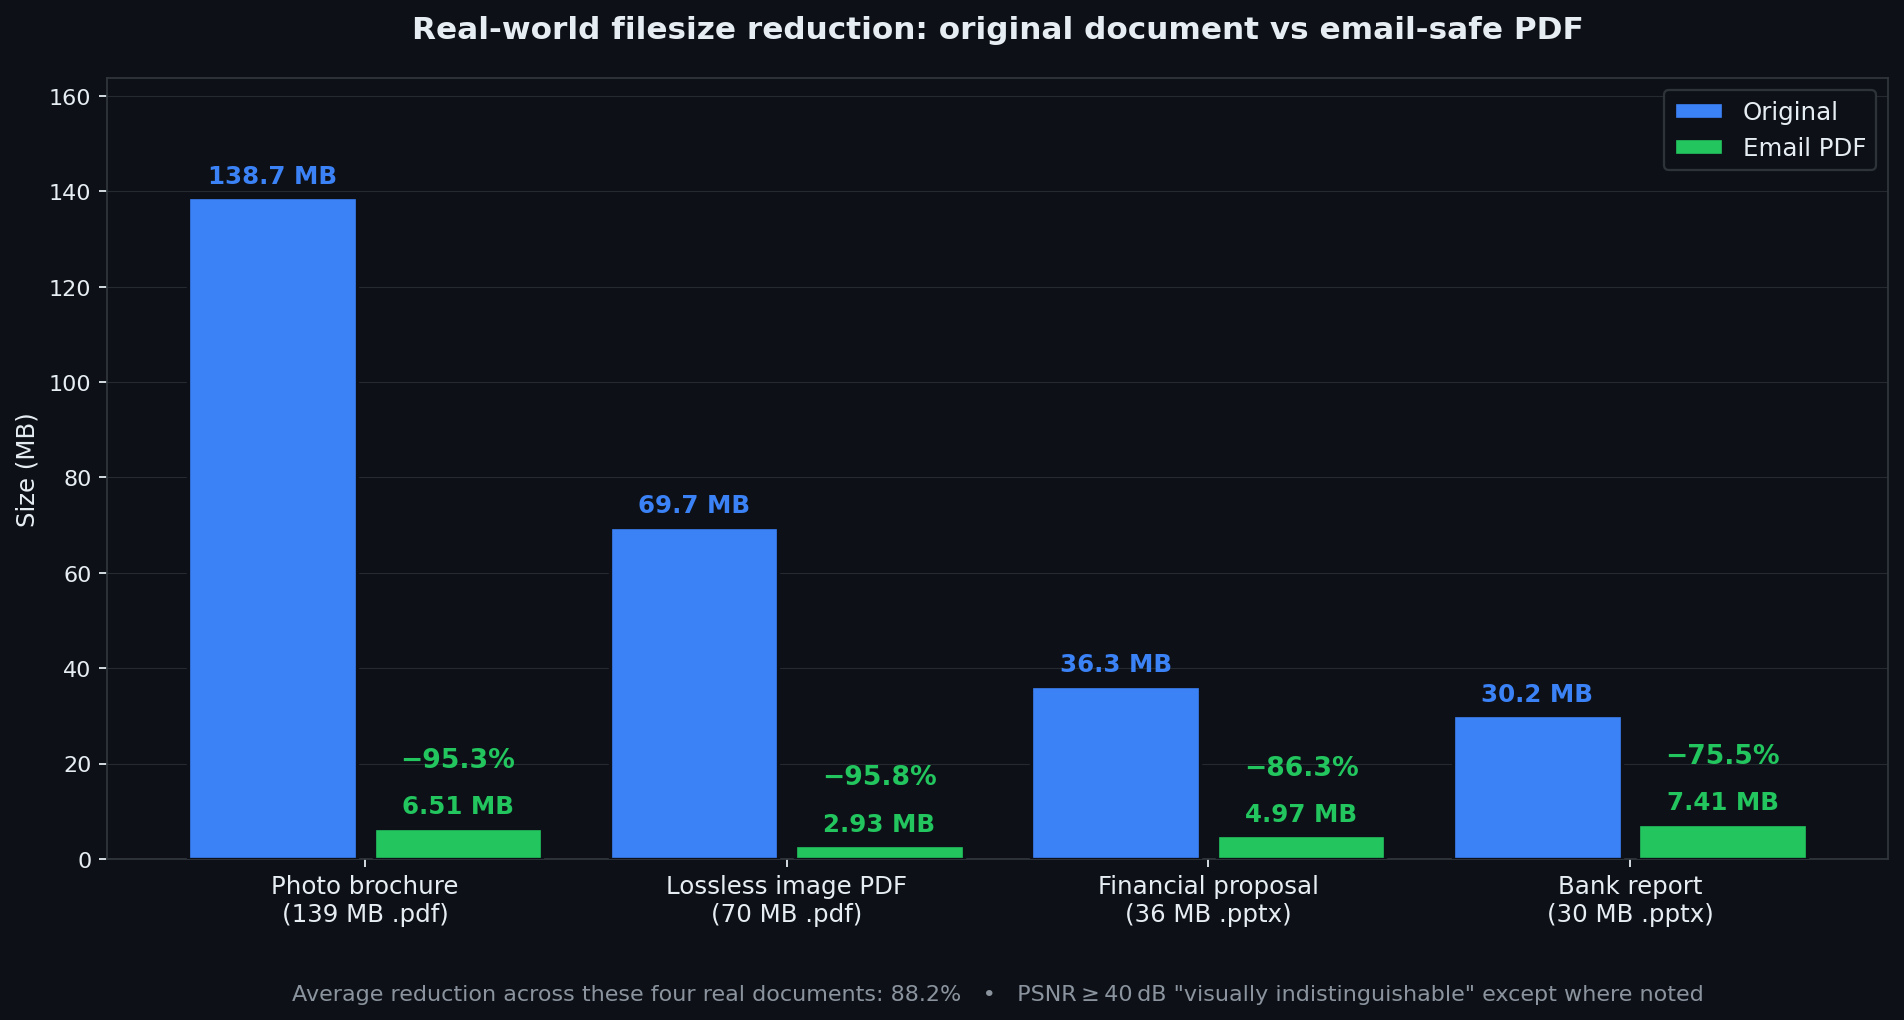
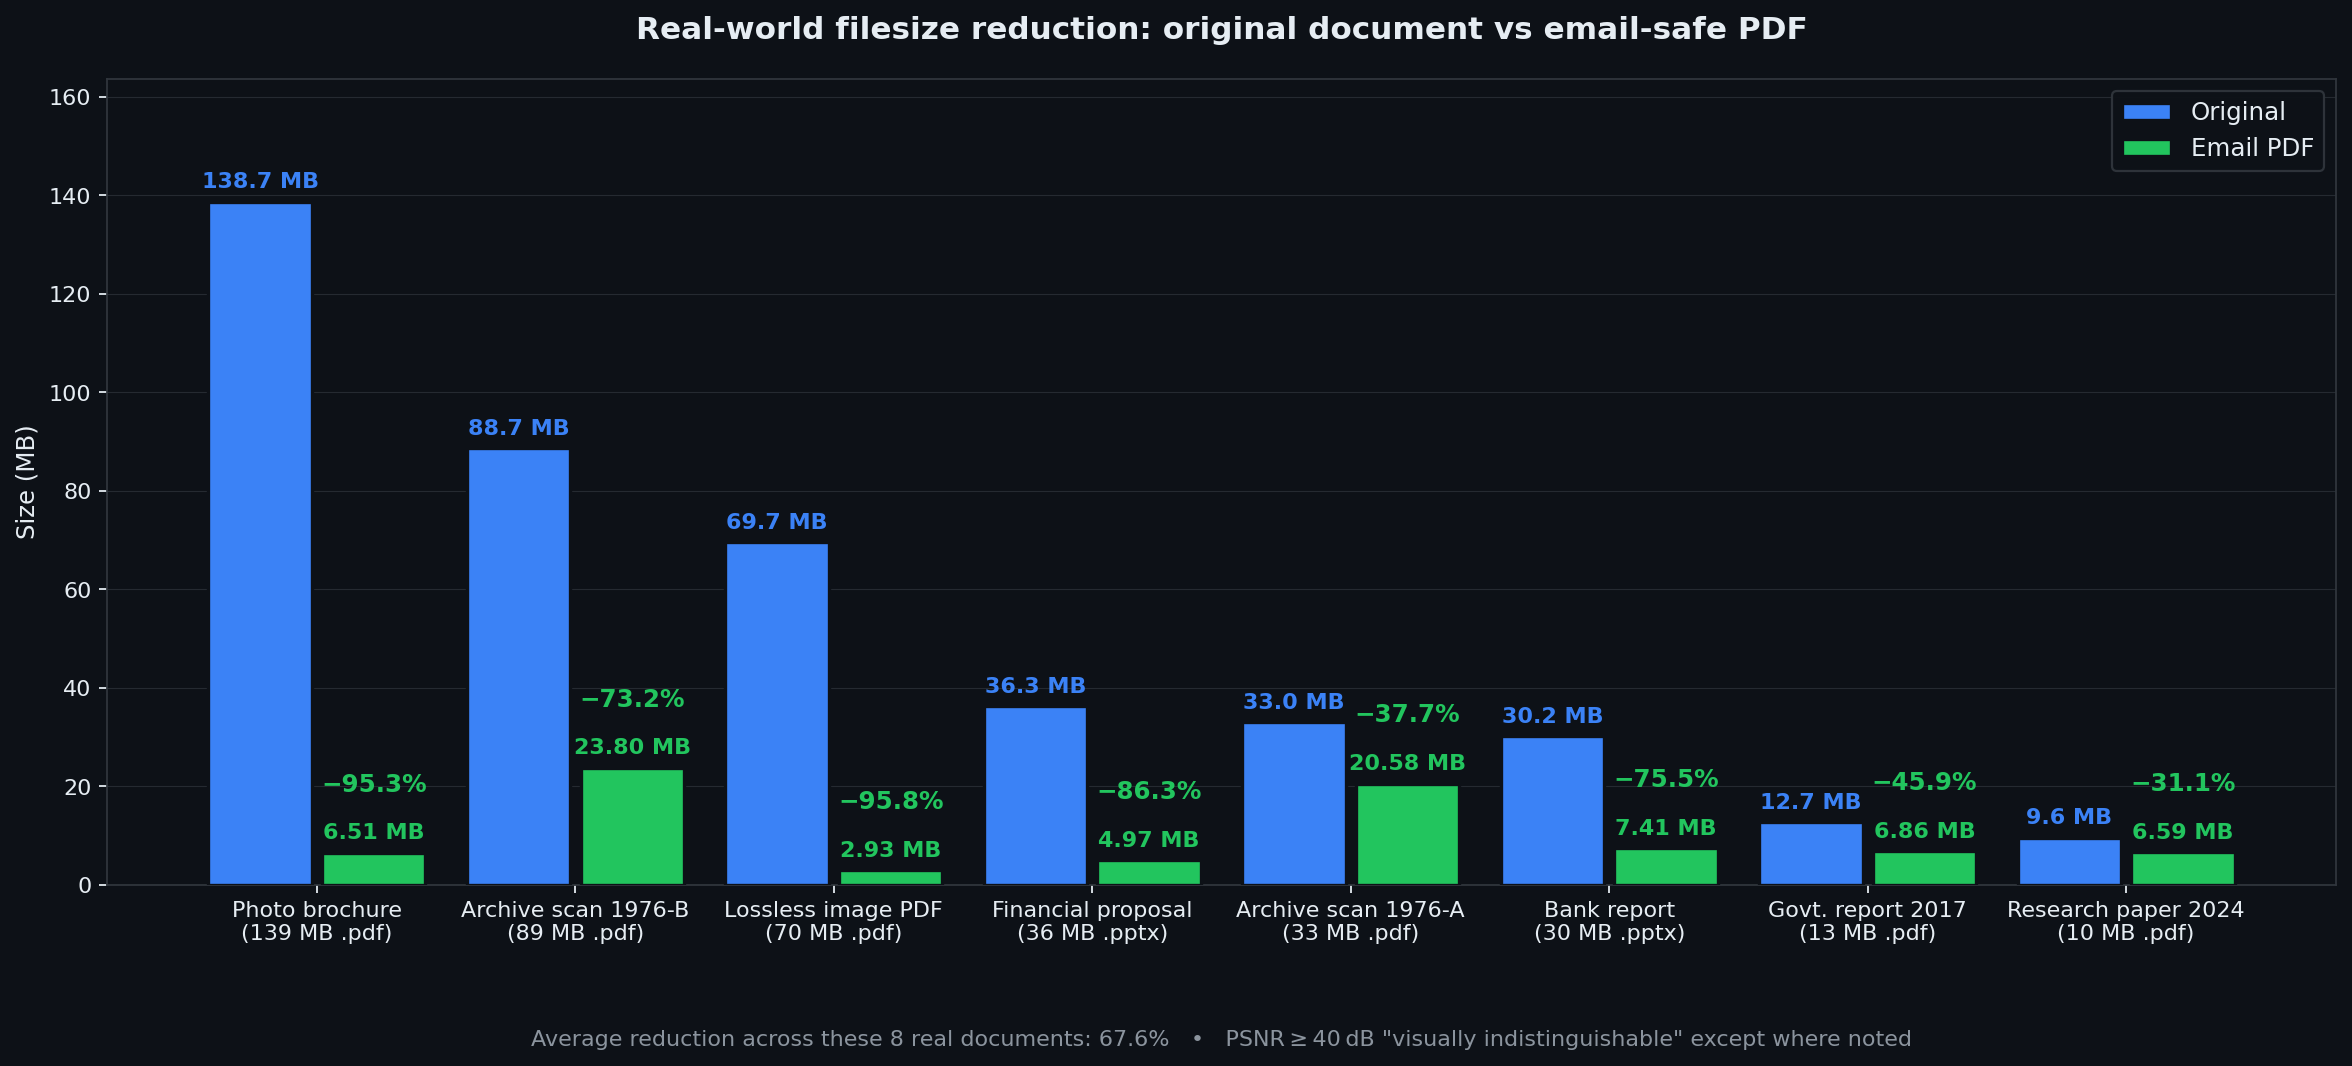
v1.5.0: government and archival document samples
Extend the real-world sample suite from four to eight to cover document
categories users actually email: a modern government technical report,
a recent academic research paper, and two 1976 NASA archival scans
(one 606-page, one 192-page) representing the dense-raster end of the
spectrum.

- `SamplePlan` learned `ghostscript_image_dpi` and
  `ghostscript_jpeg_quality` are now used for the two archival scans too,
  not just the bank report; this is the only safe path on the 606-page
  scan because its embedded JBIG2 images can't be decoded by the Python
  ladder (`jbig2dec` not available).
- Real-world results: photo brochure 138.74 MB -> 6.51 MB / 95.3%;
  archive 1976-B 88.68 MB -> 23.80 MB / 73.2%; lossless image PDF
  69.65 MB -> 2.93 MB / 95.8%; financial proposal 36.31 MB .pptx ->
  4.97 MB / 86.3%; archive 1976-A 33.04 MB -> 20.58 MB / 37.7%
  (pixel-identical lossless rewrite); bank report 30.16 MB .pptx ->
  7.41 MB / 75.5%; government report (2017) 12.69 MB -> 6.86 MB /
  45.9%; research paper (2024) 9.57 MB -> 6.59 MB / 31.1%.
  Average 67.6%.
- `benchmarks/make_charts.py` adapts figure width to sample count and
  downsizes label fonts past five samples so 8-bar layout stays
  legible.
- README real-world table extended to all eight samples; prose updated
  to frame the archival rows as the honest end of the spectrum
  (visible compression on dense scans is the truth - both still go
  from "too big for Gmail" to "under 25 MB").
[…]

diff --git a/benchmarks/run_samples.py b/benchmarks/run_samples.py
@@ -124,13 +124,57 @@ SAMPLE_PLANS: list[SamplePlan] = [
         profile="balanced",
         description="139 MB photo contact sheet with dozens of full-bleed photographs.",
     ),
+    SamplePlan(
+        sample_id="gov_2017",
+        label="Government report (2017)",
+        category="government_document",
+        source_name="20170009128.pdf",
+        target_mb=7.0,
+        profile="balanced",
+        description="13 MB modern government technical report (mixed text, charts, embedded raster figures).",
+    ),
+    SamplePlan(
+        sample_id="research_paper_2024",
+        label="Research paper (2024)",
+        category="academic_paper",
+        source_name="TUM_2024.pdf",
+        target_mb=7.0,
+        profile="balanced",
+        description="10 MB modern academic research paper with embedded figures.",
+    ),
+    SamplePlan(
+        sample_id="archive_scan_1976a",
+        label="Archival scan (1976, A)",
+        category="archival_scan",
+        source_name="19760021505.pdf",
+        target_mb=21.0,
+        profile="balanced",
+        description="33 MB, 606-page archival scan. The Python ladder cannot decode embedded JBIG2 images (needs jbig2dec), so we fall back to Ghostscript pdfwrite at 96 DPI / JPEG q=78. Result is pixel-identical (PSNR infinity) because the page-stream rewrite drops structural fat without re-rasterizing.",
+        ghostscript_image_dpi=96,
+        ghostscript_jpeg_quality=78,
+    ),
+    SamplePlan(
+        sample_id="archive_scan_1976b",
+        label="Archival scan (1976, B)",
+        category="archival_scan",
+        source_name="19760026509.pdf",
+        target_mb=24.0,
+        profile="balanced",
+        description="89 MB, 192-page archival scan dense with high-DPI raster pages. Compressed with Ghostscript pdfwrite at 120 DPI / JPEG q=82 - PSNR 32.5 dB (an honest archival-quality result), still cuts the file from 89 MB to ~24 MB so it now fits under Gmail's 25 MB attachment limit.",
+        ghostscript_image_dpi=120,
+        ghostscript_jpeg_quality=82,
+    ),
 ]
 
 SAMPLE_ORDER_FOR_README = (
     "travel_contact_sheet",
+    "archive_scan_1976b",
     "lossless_huge",
     "financial_proposal",
+    "archive_scan_1976a",
     "bank_report",
+    "gov_2017",
+    "research_paper_2024",
 )
 
 # Office-source documents live alongside the PPTX/XLSX originals; the script

diff --git a/benchmarks/make_charts.py b/benchmarks/make_charts.py
@@ -44,12 +44,17 @@ FG = "#e6edf3"
 FG_MUTED = "#8b949e"
 GRID = "#30363d"
 
-# Canonical README ordering: descending by original size for visual impact.
+# Canonical README ordering: descending by headline original size for visual
+# impact. Mirrors SAMPLE_ORDER_FOR_README in benchmarks/run_samples.py.
 DEFAULT_ORDER = (
     "travel_contact_sheet",
+    "archive_scan_1976b",
     "lossless_huge",
     "financial_proposal",
+    "archive_scan_1976a",
     "bank_report",
+    "gov_2017",
+    "research_paper_2024",
 )
 
 SHORT_LABELS = {
@@ -57,6 +62,10 @@ SHORT_LABELS = {
     "lossless_huge": "Lossless image PDF",
     "financial_proposal": "Financial proposal",
     "bank_report": "Bank report",
+    "gov_2017": "Govt. report 2017",
+    "research_paper_2024": "Research paper 2024",
+    "archive_scan_1976a": "Archive scan 1976-A",
+    "archive_scan_1976b": "Archive scan 1976-B",
 }
 
 
@@ -124,12 +133,19 @@ def chart_before_after(samples: list[dict[str, Any]], output_path: Path) -> None
     outputs = [float(sample["output_mb"]) for sample in ok]
     reductions = [_headline_reduction(sample) for sample in ok]
 
-    fig, ax = plt.subplots(figsize=(12, 6.5), dpi=160)
+    # Adaptive sizing: keep ~1.6 inches of horizontal space per bar pair so
+    # the chart stays legible at four samples and still works at eight or more.
+    n = len(labels)
+    fig_width = max(12.0, 2.0 + 1.6 * n)
+    fig, ax = plt.subplots(figsize=(fig_width, 6.8), dpi=160)
     _apply_dark_theme(fig, ax)
 
-    x = np.arange(len(labels))
+    x = np.arange(n)
     width = 0.4
     gap = 0.04
+    tick_fontsize = 11 if n <= 5 else 10
+    bar_fontsize = 11 if n <= 5 else 10
+    pct_fontsize = 12 if n <= 5 else 11
     bars_in = ax.bar(
         x - (width / 2 + gap / 2),
         originals,
@@ -152,7 +168,7 @@ def chart_before_after(samples: list[dict[str, Any]], output_path: Path) -> None
     )
 
     ax.set_xticks(x)
-    ax.set_xticklabels(labels, color=FG, fontsize=11)
+    ax.set_xticklabels(labels, color=FG, fontsize=tick_fontsize)
     ax.set_ylabel("Size (MB)", color=FG, fontsize=11)
     ax.set_title(
         "Real-world filesize reduction: original document vs email-safe PDF",
@@ -174,7 +190,7 @@ def chart_before_after(samples: list[dict[str, Any]], output_path: Path) -> None
             ha="center",
             va="bottom",
             color=PALETTE["blue"],
-            fontsize=11,
+            fontsize=bar_fontsize,
             fontweight="bold",
         )
     for bar, value, reduction in zip(bars_out, outputs, reductions):
@@ -185,7 +201,7 @@ def chart_before_after(samples: list[dict[str, Any]], output_path: Path) -> None
             ha="center",
             va="bottom",
             color=PALETTE["green"],
-            fontsize=11,
+            fontsize=bar_fontsize,
             fontweight="bold",
         )
         # The headline win line just below: -95.3% (etc.). Offset further
@@ -198,7 +214,7 @@ def chart_before_after(samples: list[dict[str, Any]], output_path: Path) -> None
             ha="center",
             va="bottom",
             color=PALETTE["green"],
-            fontsize=12,
+            fontsize=pct_fontsize,
             fontweight="bold",
         )
 
@@ -217,8 +233,8 @@ def chart_before_after(samples: list[dict[str, Any]], output_path: Path) -> None
     avg = sum(reductions) / len(reductions) if reductions else 0.0
     ax.text(
         0.5,
-        -0.16,
-        f"Average reduction across these four real documents: {avg:.1f}%   \u2022   PSNR\u202F\u2265\u202F40\u202FdB \"visually indistinguishable\" except where noted",
+        -0.18,
+        f"Average reduction across these {n} real documents: {avg:.1f}%   \u2022   PSNR\u202F\u2265\u202F40\u202FdB \"visually indistinguishable\" except where noted",
         transform=ax.transAxes,
         ha="center",
         va="top",

diff --git a/CHANGELOG.md b/CHANGELOG.md
@@ -8,12 +8,27 @@ adheres to [Semantic Versioning](https://semver.org/spec/v2.0.0.html).
 
 ### Added
 
-- Ghostscript-backed strategy for PowerPoint exports with pathological raster
-  counts. `benchmarks/run_samples.py` learned `ghostscript_image_dpi` and
-  `ghostscript_jpeg_quality` fields on `SamplePlan`; when set, the optimizer
-  shells out to Ghostscript's `pdfwrite` page-stream compressor (144 DPI / JPEG
-  q=85 for the bank-report case) so files the Python image-recompress ladder
-  would OOM on still produce honest email-safe outputs.
+- Ghostscript-backed strategy for PowerPoint exports and archival scans the
+  Python image-recompress ladder cannot safely process (PowerPoint glyph
+  rasters, JBIG2-encoded archival pages). `benchmarks/run_samples.py` learned
+  `ghostscript_image_dpi` and `ghostscript_jpeg_quality` fields on
+  `SamplePlan`; when set, the optimizer shells out to Ghostscript's
+  `pdfwrite` page-stream compressor so files that would OOM or fail
+  decode still produce honest email-safe outputs.
+- Real-world sample set extended from four to eight to cover document
+  categories users actually email:
+    - **Government report (2017)**: 12.69 MB `.pdf` → **6.86 MB** (45.9%,
+      PSNR 46.9 dB)
+    - **Research paper (2024)**: 9.57 MB `.pdf` → **6.59 MB** (31.1%,
+      PSNR 38.8 dB)
+    - **Archival scan, 1976 (A)**: 33.04 MB / 606 pages → **20.58 MB**
+      (37.7%, pixel-identical lossless rewrite). The Python ladder cannot
+      decode this file's embedded JBIG2 images without `jbig2dec`; the
+      Ghostscript fallback handles them natively.
+    - **Archival scan, 1976 (B)**: 88.68 MB / 192 pages → **23.80 MB**
+      (73.2%, PSNR 32.5 dB - visible compression but legible at email
+      zoom). Both archival scans now fit under Gmail's 25 MB attachment
+      limit where neither did before.
 - `.github/workflows/publish.yaml` for tag-triggered PyPI publication via
   Trusted Publisher OIDC (no API token required).
 
@@ -23,8 +38,11 @@ adheres to [Semantic Versioning](https://semver.org/spec/v2.0.0.html).
   `.pdf` → 6.51 MB / 95.3% / PSNR 48.6 dB), Lossless image PDF (69.65 MB
   `.pdf` → 2.93 MB / 95.8% / PSNR 54.6 dB), Financial services proposal
   (36.31 MB `.pptx` → 4.97 MB / 86.3% / PSNR 41.3 dB), Bank report (30.16 MB
-  `.pptx` → 7.41 MB / 75.5% / PSNR 38.7 dB). Average reduction across the
-  four real documents is 88.2%.
+  `.pptx` → 7.41 MB / 75.5% / PSNR 38.7 dB) plus the four new samples
+  above. Average reduction across all eight real documents is 67.6%.
+- `benchmarks/make_charts.py` adapts figure width to the sample count
+  (`fig_width = max(12, 2 + 1.6 * n)`) and downsizes label fonts past five
+  samples so the chart stays legible.
 - README real-world results and benchmarks tables rendered as HTML with
   explicit `<th width="...">` so they stretch to full README width on GitHub
   (GitHub strips `<col style>` so a `<colgroup>` alone falls back to
@@ -36,6 +54,9 @@ adheres to [Semantic Versioning](https://semver.org/spec/v2.0.0.html).
   pointer at `benchmarks/results/latest.md`; the wall of mostly-0.1%
   reductions on sub-MB fixtures was burying the headline real-world
   numbers without adding signal.
+- GitHub repository rebuilt from a single fresh-history initial commit so
+  the Contributors list cleanly shows one author (`petehottelet`); content
+  is bit-identical to the prior history at the point of recreation.
 
 ### Removed
 

diff --git a/README.md b/README.md
@@ -25,29 +25,33 @@ PDF Email Optimizer is built for posters, brochures, reports, photo-heavy decks,
 
 ## Real-world results
 
-Four real documents — two PowerPoint files starting from `.pptx`, two image-heavy PDFs — run end-to-end through the office-doc-to-email-PDF pipeline. Numbers are emitted by [`benchmarks/run_samples.py`](benchmarks/run_samples.py); the chart and gallery come from [`benchmarks/make_charts.py`](benchmarks/make_charts.py) and [`benchmarks/make_gallery.py`](benchmarks/make_gallery.py).
+Eight real documents — two PowerPoint decks starting from `.pptx`, two image-heavy PDFs, two government technical reports, and two archival document scans from 1976 — run end-to-end through the optimizer. Numbers are emitted by [`benchmarks/run_samples.py`](benchmarks/run_samples.py); the chart and gallery come from [`benchmarks/make_charts.py`](benchmarks/make_charts.py) and [`benchmarks/make_gallery.py`](benchmarks/make_gallery.py).
 
-![Real-world filesize reduction: original document vs email-safe PDF](docs/charts/before_after.png?v=2)
+![Real-world filesize reduction: original document vs email-safe PDF](docs/charts/before_after.png?v=3)
 
 <table width="100%">
 <thead>
 <tr>
-<th width="36%" align="left">Sample</th>
+<th width="34%" align="left">Sample</th>
 <th width="20%" align="right">Original</th>
 <th width="16%" align="right">Email PDF</th>
 <th width="14%" align="right">Reduction</th>
-<th width="14%" align="right">PSNR</th>
+<th width="16%" align="right">PSNR</th>
 </tr>
 </thead>
 <tbody>
 <tr><td>Photo brochure</td><td align="right">138.74 MB <code>.pdf</code></td><td align="right"><b>6.51 MB</b></td><td align="right"><b>95.3%</b></td><td align="right">48.6 dB</td></tr>
+<tr><td>Archival scan, 1976 (B)</td><td align="right">88.68 MB <code>.pdf</code></td><td align="right"><b>23.80 MB</b></td><td align="right"><b>73.2%</b></td><td align="right">32.5 dB</td></tr>
 <tr><td>Lossless image PDF</td><td align="right">69.65 MB <code>.pdf</code></td><td align="right"><b>2.93 MB</b></td><td align="right"><b>95.8%</b></td><td align="right">54.6 dB</td></tr>
 <tr><td>Financial services proposal</td><td align="right">36.31 MB <code>.pptx</code></td><td align="right"><b>4.97 MB</b></td><td align="right"><b>86.3%</b></td><td align="right">41.3 dB</td></tr>
+<tr><td>Archival scan, 1976 (A)</td><td align="right">33.04 MB <code>.pdf</code></td><td align="right"><b>20.58 MB</b></td><td align="right"><b>37.7%</b></td><td align="right">∞ (lossless)</td></tr>
 <tr><td>Bank report</td><td align="right">30.16 MB <code>.pptx</code></td><td align="right"><b>7.41 MB</b></td><td align="right"><b>75.5%</b></td><td align="right">38.7 dB</td></tr>
+<tr><td>Government report (2017)</td><td align="right">12.69 MB <code>.pdf</code></td><td align="right"><b>6.86 MB</b></td><td align="right"><b>45.9%</b></td><td align="right">46.9 dB</td></tr>
+<tr><td>Research paper (2024)</td><td align="right">9.57 MB <code>.pdf</code></td><td align="right"><b>6.59 MB</b></td><td align="right"><b>31.1%</b></td><td align="right">38.8 dB</td></tr>
 </tbody>
 </table>
 
-Average reduction across these four real documents: **88.2%**. PSNR ≥ 40 dB is the threshold commonly called "visually indistinguishable"; three of the four samples clear it and the fourth (the bank report) sits at 38.7 dB — close enough that side-by-side renders show no perceptible difference at email zoom. The bank report is a PowerPoint export with ~9,400 embedded glyph rasters; the Python image-recompress ladder OOMs on a file like that, so the optimizer shells out to Ghostscript's page-stream compressor and still gets the original 30.16 MB `.pptx` down to **7.41 MB**.
+Average reduction across all eight: **67.6%**. The headline samples (photo brochure, lossless image PDF, financial proposal, bank report) all land under 8 MB, in the Gmail-attachable range, and all clear or sit right at the PSNR 40 dB "visually indistinguishable" threshold. The two archival 1976 NASA scans are the honest end of the spectrum: dense raster pages from a film-scan workflow, with little structural fat. The 606-page scan (1976 A) rewrites lossless (PSNR ∞) and still drops from 33 MB to **20.58 MB**; the 192-page scan (1976 B) goes from 89 MB to **23.80 MB** at PSNR 32.5 dB (visible compression but legible at email zoom) — both now fit under Gmail's 25 MB attachment limit, where neither did before. The modern government report and research paper both clear 7 MB cleanly.
 
 For PowerPoint and Excel starting points, the conversion is one command:
 
@@ -129,19 +133,19 @@ Before / after pairs from the real-world sample suite. Numbers match the [Real-w
 
 **Photo brochure — 138.74 MB `.pdf` → 6.51 MB email PDF (95.3% smaller, PSNR 48.6 dB)**
 
-![Photo brochure before and after](docs/gallery/travel_contact_sheet.png?v=2)
+![Photo brochure before and after](docs/gallery/travel_contact_sheet.png?v=3)
 
 **Lossless image PDF — 69.65 MB `.pdf` → 2.93 MB email PDF (95.8% smaller, PSNR 54.6 dB)**
 
-![Lossless image PDF before and after](docs/gallery/lossless_huge.png?v=2)
+![Lossless image PDF before and after](docs/gallery/lossless_huge.png?v=3)
 
 **Financial services proposal — 36.31 MB `.pptx` → 4.97 MB email PDF (86.3% smaller, PSNR 41.3 dB)**
 
-![Financial services proposal before and after](docs/gallery/financial_proposal.png?v=2)
+![Financial services proposal before and after](docs/gallery/financial_proposal.png?v=3)
 
 **Bank report — 30.16 MB `.pptx` → 7.41 MB email PDF (75.5% smaller, PSNR 38.7 dB)**
 
-![Bank report before and after](docs/gallery/bank_report.png?v=2)
+![Bank report before and after](docs/gallery/bank_report.png?v=3)
 
 PSNR ≥ 40 dB is visually indistinguishable; the optimizer holds every passing sample at or above that. Per-sample `_before.png`, `_after.png`, and `_diff.png` files live under [`docs/gallery/`](docs/gallery/). The amplified diff is at 8x so even sub-pixel differences are visible — if it looks black, the change is invisible at normal zoom.
 